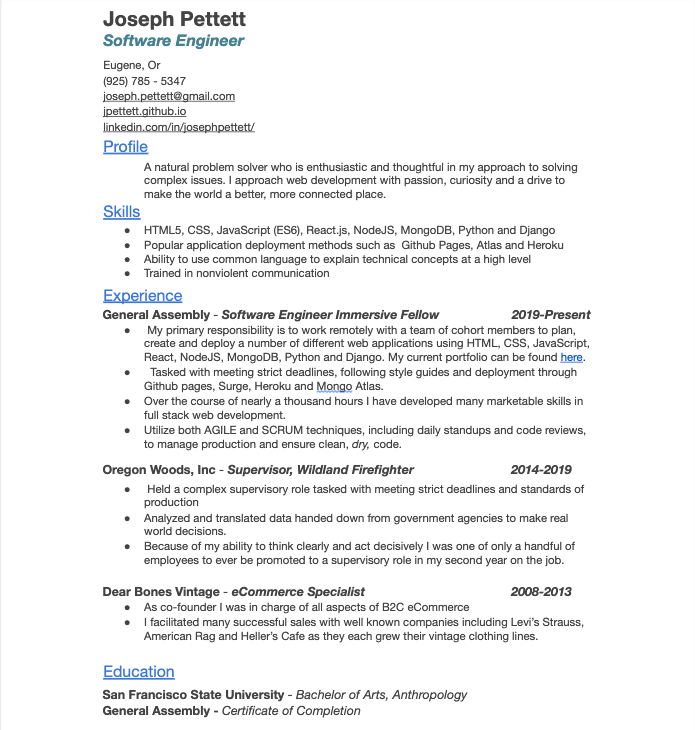
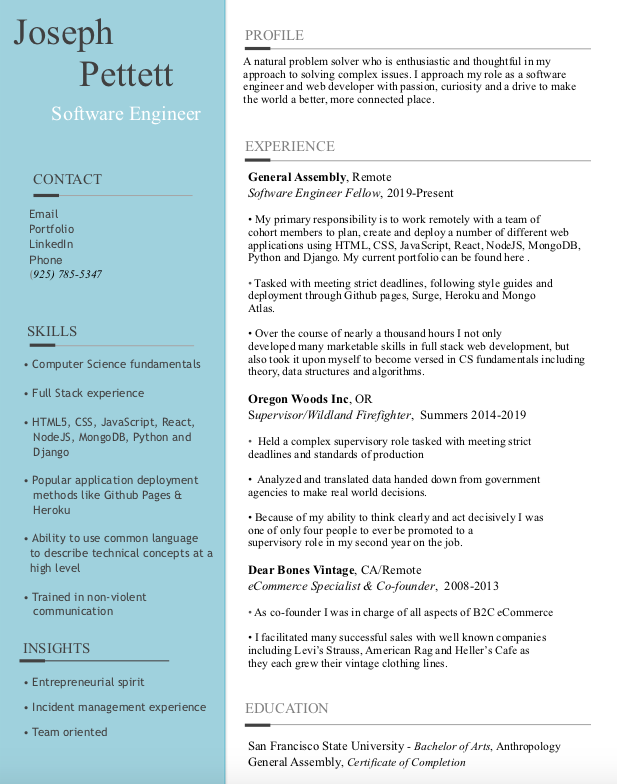
added modals and resume

diff --git a/index.html b/index.html
@@ -21,10 +21,10 @@
             <h3>Software Engineer</h3>
         </header>
         <nav>
-            <a class="link" href="https://docs.google.com/document/d/1Fg47qRdtRZGL7aCnyluZjXNQhEBTtqx8OFrn6SJeCnc/edit#heading=h.5rf9wr4r3no2" target="_blank">Resume</a>
+            <a class="link" data-toggle="modal" data-target="#aboutMeModal" style="color: rgb(211, 113, 48);" >About</a>
             <span> </span>
             <div class="dropdown link">
-                <a class="dropbtn">Contact</a>
+                <a class="dropbtn" style="color: rgb(211, 113, 48);">Contact</a>
                 <div class="dropdown-content">
                     <a href="mailto:joseph.pettett@gmail.com">joseph.pettett@gmail.com</a>
                     <a href="https://www.linkedin.com/in/josephpettett/">LinkedIn</a>
@@ -34,7 +34,32 @@
             <span> </span>
             <a class="portfolio" href="portfolio.html">Portfolio</a>
         </nav>
-        
+        <!-- About Modal -->
+        <div class="modal fade" id="aboutMeModal" role="dialog">
+            <div class="modal-dialog">
+                <div class="modal-content">
+                    <div class="modal-header">
+                        <h5 class="modal-title" id="aboutMeModal">Joseph Pettett</h5>
+                        <button type="button" class="close" data-dismiss="modal">&times;</button>
+                    </div>
+                    <div class="modal-body">
+                        <img src="images/coding.jpg" style="padding: 0px 0px 10px 40px;">
+                        <p>The way I approach my role as a software engineer is similar to how I approach my day to day life - I like to meet each
+                        day with curiosity, thoughtfulness and drive.</p>
+                        <p>Working as a wildland firefighter taught me to stay calm, think clearly and act decisively. These skills help facilitate
+                        cohesive team dynamics and thoughtful decision making under pressure.</p>
+                        <p>My time spent in eCommerce instilled an entrepreneurial spirit. Passion for intelligent design, creative problem solving
+                        and a willingness to learn and adopt new technologies helped keep our company competitive in the market.</p>
+                        <p>I am excited to continue utilizing my cumulative experiences to solve more complex problems as a software engineer.</p>
+                        <div class="modal-footer">
+                            <button type="button" class="btn btn-secondary" data-dismiss="modal">Close</button>
+                        </div>
+                    </div>
+                </div>
+            </div>
+        </div>
+    </div>
+        <!-- About Modal End -->
         <main>
             <h2 class="featured">Featured Work</h2>
             <!-- Cards start here  -->
@@ -90,6 +115,8 @@
             <!-- Email -->
             <a class="footer-links" href="mailto:joseph.pettett@gmail.com" target="_blank">
             <i class="fas fa-envelope-square" style="font-size:30px"></i></a>
+            <!-- Resume -->
+            <a class="footer-links" href="https://drive.google.com/file/d/1bt3e3Z_4eX4eUZJvdXxgMpDrJBbj9LCh/view" target="_blank"><i class="fas fa-file-pdf" style="font-size:30px"></i></a>
         </footer>
         <!-- jquery/bootstrap script tags -->
         <script src="https://code.jquery.com/jquery-3.3.1.slim.min.js"

diff --git a/about.html b/about.html
@@ -10,15 +10,6 @@
     <h1>Joseph Pettett</h1>
     <a href="index.html">Home</a>
     <div class="aboutme">
-      <!-- <p>
-        The way I approach my role as a software engineer is similar to how I
-        approach my day to day life. I like to meet each day with curiosity,
-        thoughtfulness and drive. Working as a wildland firefighter taught me to
-        stay calm, think clearly and act decisively. My time spent in eCommerce
-        instilled a passion for intelligent design, communication and creative
-        problem solving. I am excited to continue utilizing my cumulative
-        experience to solve more complex problems in the near future.
-        </p> -->
       <img class="resume" src="./images/Resume.png" alt="Resume Text" />
     </div>
   </body>

diff --git a/style.css b/style.css
@@ -44,10 +44,8 @@ footer {
 
 .link {
   font-size: 18px;
-  color: rgb(211, 113, 48);
   text-decoration: none;
   padding-right: 50px;
-  /* border-right: 1px solid rgb(211, 113, 48); */
 }
 
 .portfolio {
@@ -58,13 +56,13 @@ footer {
 }
 
 .link:hover {
-  text-decoration: underline;
   color: rgb(211, 113, 48);
+  cursor: pointer;
 }
 
 .portfolio:hover {
-  text-decoration: underline;
   color: rgb(211, 113, 48);
+  text-decoration: none;
 }
 
 .footer {

diff --git a/portfolio.html b/portfolio.html
@@ -67,7 +67,7 @@
         <li>JSON Web Token</li>
       </ul>
       <a href="https://ridgeline-ramble-app.herokuapp.com/home" target="_blank">
-        <img src="/images/ridgelineramble.png" alt="Ridgeline Ramble App" /></a>
+        <img src="./images/ridgeramble.png" alt="Ridgeline Ramble App" /></a>
     </div>
     <a href="index.html">Home</a>
   </body>
